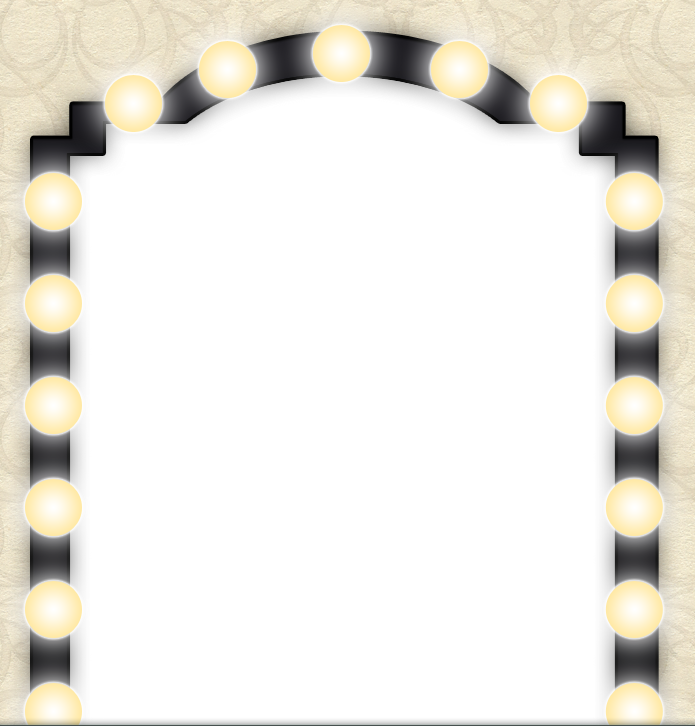
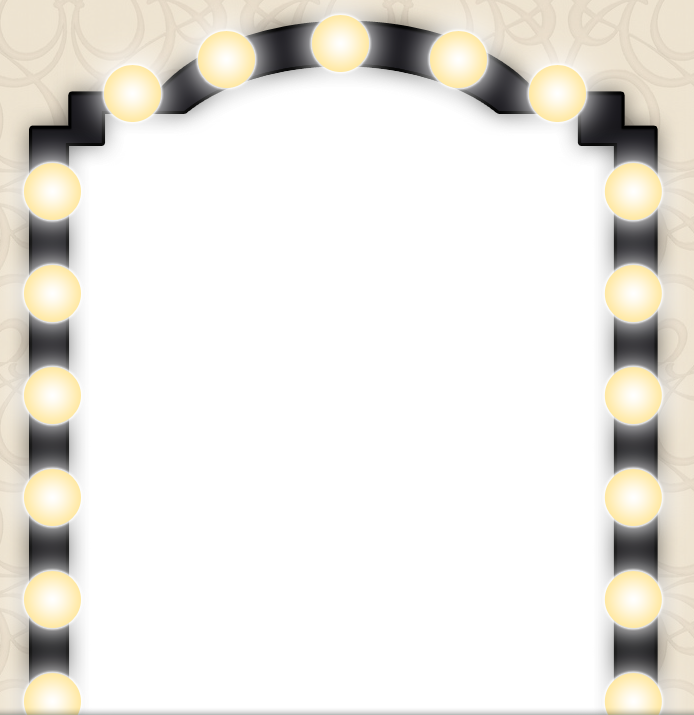
add changes css

diff --git a/greenroom/apps/www/templates/home.html b/greenroom/apps/www/templates/home.html
@@ -37,6 +37,31 @@
 			</div>
 		</div>
 	</div>
+	<div class="container">
+		<!-- action should be created from the url returned by ajax call above -->
+		<form id="form-ask" action="" method="post" class="">
+				{% csrf_token %}
+		   	<div class="span-6">
+		   		<h3>Ask your friends about your outfit</h3>
+		   		<ul>
+		   			<li class="email-icon"><input type="text" placeholder="nameofyourfriends@email.com" name="email_1" /> </li>
+		   			<li class="email-icon"><input type="text" placeholder="nameofyourfriends@email.com" name="email_2" /> </li>
+		   			<li class="email-icon"><input type="text" placeholder="nameofyourfriends@email.com" name="email_3" /> </li>
+		   		</ul>
+				<input class="button" type="submit" value="Ask feedback" />
+		   	</div>
+		   	<div class="span-6">
+		   		<h3>or ask your friends on facebook</h3>
+
+				<p>
+					{% for f in fb_friends %}
+						<img src='{{ f.pic_square }}' height="50" width="50" />
+						<input type="checkbox" name="email_fb_{{ forloop.counter }}" value='{{ f.username }}@facebook.com' /> {{ f.name }} <br />
+					{% endfor %}
+				</p>
+			</div>
+		</form>
+	</div>
 </div>
 <div class="allwidth green">
 	<div class="container how-it-works">
@@ -75,26 +100,4 @@
 		</div>
 	</div>
 </div>
-
-<!-- action should be created from the url returned by ajax call above -->
-<form id="form-ask" action="" method="post" class="hidden">
-		{% csrf_token %}
-   		<h3>Dear friends!</h3>
-   		<p>
-   			email 1 : <input type="text" name="email_1" /> <br />
-   			email 2 : <input type="text" name="email_2" /> <br />
-   			email 3 : <input type="text" name="email_3" /> <br />
-   		</p>
-
-		<p>
-			{% for f in fb_friends %}
-				<img src='{{ f.pic_square }}' height="50" width="50" />
-				<input type="checkbox" name="email_fb_{{ forloop.counter }}" value='{{ f.username }}@facebook.com' /> {{ f.name }} <br />
-			{% endfor %}
-		</p>
-	
-		<input type="submit" value="Ask for opinion" />
-
-</form>
-
 {% endblock %}

diff --git a/static/styles/stylesheets/style.css b/static/styles/stylesheets/style.css
@@ -878,6 +878,12 @@ table {
   background: red;
   display: block; }
 
+input[type="placeholder"],
+:-webkit-input-placeholder,
+:-moz-placeholder,
+:-ms-input-placeholder {
+  color: #eee; }
+
 /* Typography */
 @font-face {
   font-family: "riesling-webfont";
@@ -1082,7 +1088,7 @@ body {
   font-size: 1.7em; }
 
 #mirror {
-  background: url(../../images/mirror.png) no-repeat;
+  background: url(../../images/mirror.png) no-repeat 0 15px;
   width: 697px;
   height: 726px; }
 

diff --git a/static/styles/sass/style.scss b/static/styles/sass/style.scss
@@ -8,7 +8,7 @@
 @import "buttons";
 
 #mirror {
-	background:url(../../images/mirror.png) no-repeat;
+	background:url(../../images/mirror.png) no-repeat 0 15px;
 	width: 697px;
 	height: 726px;
 }

diff --git a/static/styles/sass/_common.scss b/static/styles/sass/_common.scss
@@ -44,3 +44,7 @@
   background: red;
   display: block;
 }
+input[type="placeholder"],
+:-webkit-input-placeholder, 
+:-moz-placeholder, 
+:-ms-input-placeholder { color: #eee;}
